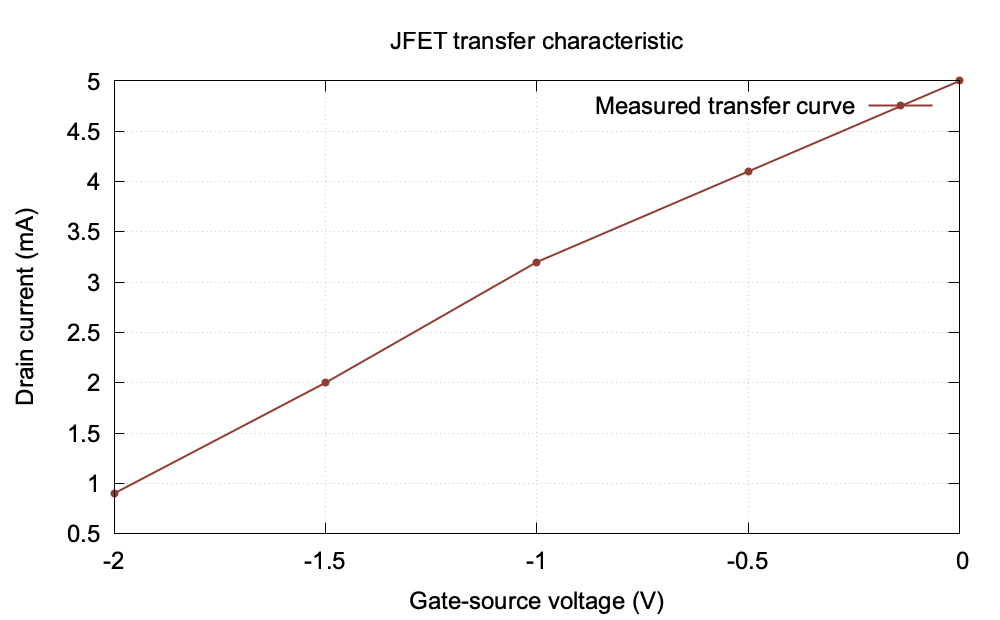
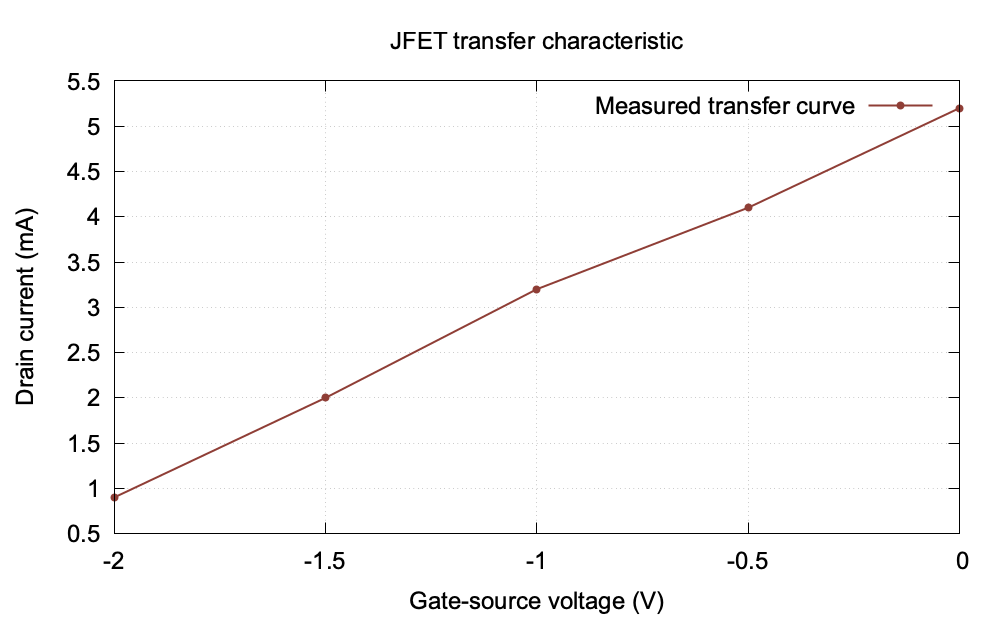
.

diff --git a/assets/tikz/practical/pg-ii/scr-characteristics/scr-setup.tex b/assets/tikz/practical/pg-ii/scr-characteristics/scr-setup.tex
@@ -7,11 +7,10 @@
         to[ammeter,l=$I_A$] (4.0,4.2)
         to[thyristor,l=$SCR$] (4.0,0) -- (0,0);
   \draw (4.0,3.0) -- (5.4,3.0) to[voltmeter,l=$V_{AK}$] (5.4,0) -- (4.0,0);
-  \draw (-0.2,0) -- (-0.2,-1.5) to[battery1,l=$V_G$] (2.0,-1.5)
-        to[R,l=$R_G$] (3.3,-1.5) -- (3.3,1.6);
-  \draw (2.3,-1.5) to[ammeter,l=$I_G$] (3.3,-1.5);
-  \draw[->] (3.3,1.6) -- (3.75,1.9) node[midway,left]{$G$};
-  \node[above] at (2.7,4.65) {SCR static-characteristic circuit};
+  \draw (-0.2,0) -- (-0.2,-1.8) to[battery1,l=$V_G$] (1.25,-1.8)
+        to[R,l=$R_G$] (2.45,-1.8) to[ammeter,l=$I_G$] (3.6,-1.8) -- (3.6,1.6);
+  \draw[->] (3.6,1.6) -- (3.82,1.9) node[midway,left]{$G$};
+  \node[above] at (2.7,5.15) {SCR static-characteristic circuit};
   \node[right] at (4.1,3.55) {$A$};
   \node[right] at (4.1,0.45) {$K$};
 \end{circuitikz}

diff --git a/assets/tikz/practical/pg-ii/hartley-oscillator/hartley-setup.tex b/assets/tikz/practical/pg-ii/hartley-oscillator/hartley-setup.tex
@@ -6,13 +6,13 @@
   \draw (0,0) -- (8.2,0) node[ground]{};
   \draw (0,5.0) -- (8.2,5.0) node[right]{$+V_{CC}$};
   \draw (Q.C) to[R,l=$R_C$] (2.3,5.0);
-  \draw (Q.E) to[R,l=$R_E$] (2.3,0);
+  \draw (Q.E) to[R,l_=$R_E$] (2.3,0);
   \draw (Q.B) -- (1.0,1.8) to[R,l_=$R_2$] (1.0,0);
   \draw (1.0,1.8) to[R,l=$R_1$] (1.0,5.0);
   \draw (Q.C) -- (4.0,3.0) to[C,l=$C_C$] (5.0,3.0);
   \draw (5.0,3.0) to[L,l=$L_1$] (5.0,1.5) to[L,l=$L_2$] (5.0,0);
   \draw (5.0,3.0) -- (7.0,3.0) to[C,l=$C$] (7.0,0) -- (5.0,0);
-  \draw (5.0,1.5) -- (3.5,1.5) to[C,l=$C_f$] (Q.E);
+  \draw (5.0,1.5) to[C,l=$C_f$] (3.5,1.5) -- (Q.E);
   \draw (7.0,3.0) -- (8.2,3.0) node[right]{$V_o$ to CRO};
   \node[above] at (4.1,5.35) {Transistor Hartley oscillator with tapped-coil feedback};
   \node[right] at (5.1,1.5) {tap};

diff --git a/_posts/PRACTICAL/PG-II/2026-07-13-fet-characteristics.md b/_posts/PRACTICAL/PG-II/2026-07-13-fet-characteristics.md
@@ -48,6 +48,12 @@ It is obtained experimentally from the slope of the $I_D$-$V_{GS}$ graph at cons
 | 6 | 5.2 | 3.2 |
 | 8 | 5.3 | 3.2 |
 
+Transfer readings at $V_{DS}=6$ V:
+
+| $V_{GS}$ (V) | 0.0 | -0.5 | -1.0 | -1.5 | -2.0 |
+|---:|---:|---:|---:|---:|---:|
+| $I_D$ (mA) | 5.2 | 4.1 | 3.2 | 2.0 | 0.9 |
+
 ## Graph
 
 <figure class="practical-figure practical-figure-wide"><img src="{{ '/assets/images/practical/pg-ii/fet-characteristics/fet.png' | relative_url }}" alt="JFET transfer characteristic graph"><figcaption>Drain current plotted against gate-source voltage.</figcaption></figure>